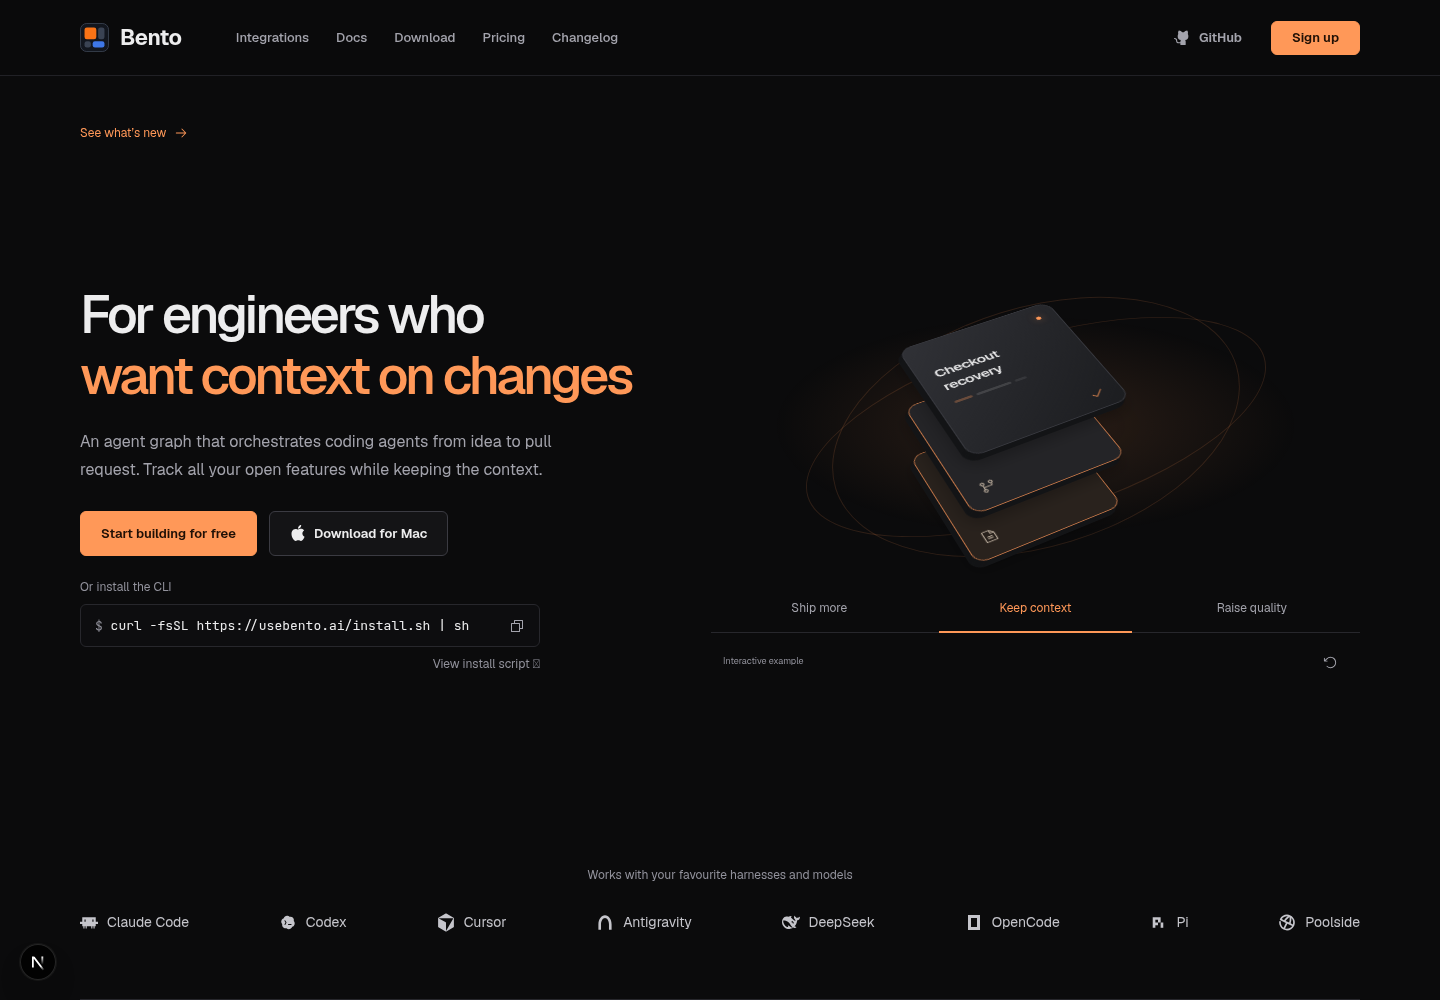
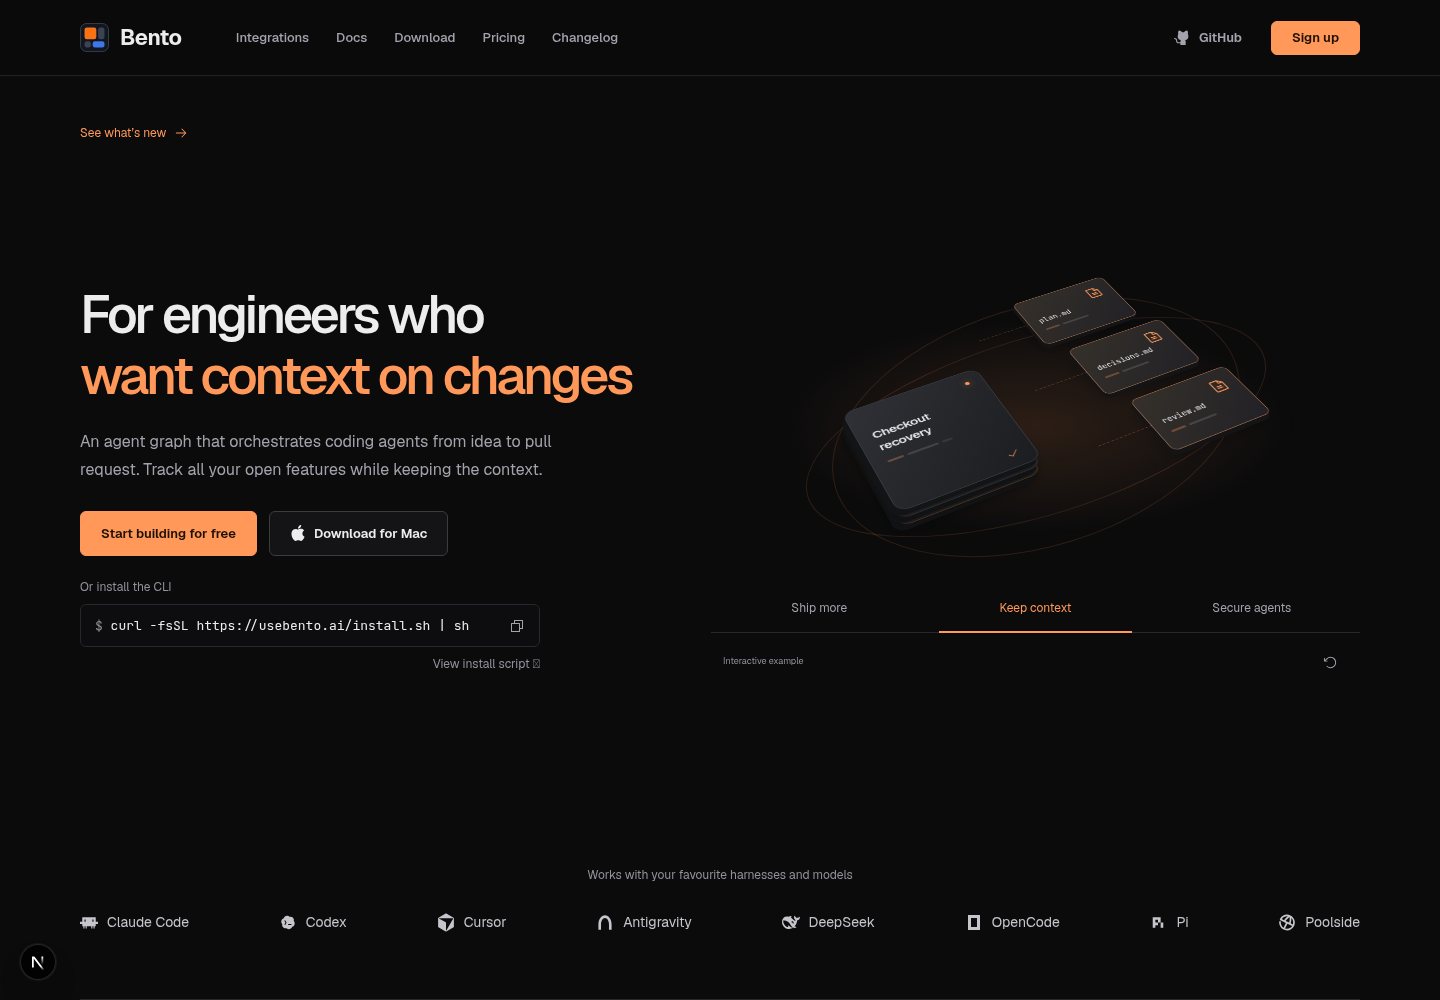
Animate shipping, artifact spawning, and agent lockdown

Changed region(s): [[0.5625, 0.279, 0.875, 0.558], [0.8438, 0.589, 0.9062, 0.62]]

diff --git a/app/marketing.css b/app/marketing.css
@@ -789,7 +789,7 @@ body:has(.marketing-page) {
 .feature-stage::before { content: ""; position: absolute; inset: 12% 6%; background: radial-gradient(ellipse, color-mix(in srgb, var(--brand) 14%, transparent), transparent 65%); }
 .feature-orbit { position: absolute; width: 420px; height: 240px; left: 50%; top: 38px; border: 1px solid color-mix(in srgb, var(--brand) 14%, transparent); border-radius: 50%; transform: translateX(-50%) rotate(-17deg); }
 .feature-orbit::after { content: ""; position: absolute; inset: 30px -30px; border: inherit; border-radius: 50%; }
-.feature-world { position: absolute; left: 50%; top: 47%; width: 0; height: 0; transform-style: preserve-3d; transform: rotateX(46deg) rotateZ(-28deg); }
+.feature-world { position: absolute; left: 50%; top: 47%; width: 0; height: 0; transform-style: preserve-3d; transform: scale(.9) rotateX(46deg) rotateZ(-28deg); }
 .feature-cluster { position: absolute; width: 160px; height: 160px; left: -80px; top: -80px; transform-style: preserve-3d; transition: transform 1000ms cubic-bezier(.22,1,.36,1), opacity 650ms; }
 .feature-cluster-0 { transform: translate3d(-167px, -32px, 12px); }
 .feature-cluster-1 { transform: translate3d(0, 16px, 36px); }
@@ -808,23 +808,65 @@ body:has(.marketing-page) {
 .feature-card-lines i:nth-child(3) { width: 12px; background: #ffffff15; }
 .feature-card-bottom { position: absolute; bottom: 12px; left: 16px; right: 16px; font-size: 6px; }
 .feature-card-bottom svg { color: #ff9858; }
-.hero-story-demo:not([data-chapter="0"]) .feature-cluster-0 { transform: translate3d(-260px, 0, -100px) scale(.6); opacity: 0; }
-.hero-story-demo:not([data-chapter="0"]) .feature-cluster-2 { transform: translate3d(260px, 0, -100px) scale(.6); opacity: 0; }
-.hero-story-demo[data-chapter="1"] .feature-cluster-1 { transform: translate3d(-36px, 20px, 0); }
-.hero-story-demo[data-chapter="1"] .feature-cluster-1 .feature-slab-base { transform: translateZ(-56px); border-color: #be7346; }
-.hero-story-demo[data-chapter="1"] .feature-cluster-1 .feature-slab-middle { transform: translateZ(14px); border-color: #be7346; }
-.hero-story-demo[data-chapter="1"] .feature-cluster-1 .feature-slab-top { transform: translateZ(88px); }
-.hero-story-demo[data-chapter="2"] .feature-cluster-1 { transform: translate3d(-20px, 10px, 12px); }
-.hero-story-demo[data-chapter="2"] .feature-cluster-1 .feature-slab { border-color: #ff9858; }
-.feature-scan { position: absolute; width: 188px; height: 188px; top: -98px; left: -114px; border: 1px solid #ff9858; border-radius: 17px; display: flex; justify-content: space-between; align-items: flex-start; padding: 13px; color: #ffb786; background: linear-gradient(135deg, #ff98581a, #ff985808); box-shadow: 0 0 30px #ff985822, inset 0 0 30px #ff985811; transform: translateZ(100px); opacity: 0; transition: opacity 600ms; }
+/* Ship: one feature travels through three physical pipeline stops. */
+.feature-pipeline { opacity: 0; transition: opacity 500ms; transform-style: preserve-3d; }
+.hero-story-demo[data-chapter="0"] .feature-pipeline { opacity: 1; }
+.pipeline-stop { position: absolute; width: 172px; height: 172px; left: -86px; top: -86px; border: 1px solid color-mix(in srgb, var(--brand) 35%, transparent); border-radius: 16px; background: color-mix(in srgb, var(--brand) 3%, transparent); }
+.pipeline-stop-0 { transform: translate3d(-167px, -32px, -40px); }
+.pipeline-stop-1 { transform: translate3d(0, 16px, -40px); }
+.pipeline-stop-2 { transform: translate3d(167px, 64px, -40px); }
+.pipeline-stop span { position: absolute; bottom: -27px; left: 0; width: 100%; text-align: center; font: 11px var(--font-jetbrains-mono), monospace; color: var(--brand); }
+.pipeline-stop:not(:last-child)::after { content: "→"; position: absolute; left: calc(100% + 1px); top: 58%; color: var(--brand); font-size: 18px; }
+.hero-story-demo:not([data-chapter="2"]) .feature-cluster-0, .hero-story-demo:not([data-chapter="2"]) .feature-cluster-2 { opacity: 0; pointer-events: none; }
+.hero-story-demo[data-chapter="0"] .feature-cluster-1 { transform: translate3d(167px, 64px, 12px); }
+/* Context: artifacts originate from a single card and fan out beside it. */
+.hero-story-demo[data-chapter="1"] .feature-cluster-1 { transform: translate3d(-115px, 0, 25px); }
+.feature-artifacts { transform-style: preserve-3d; opacity: 0; transition: opacity 500ms; }
+.hero-story-demo[data-chapter="1"] .feature-artifacts { opacity: 1; }
+.feature-artifact { position: absolute; left: -62px; top: -43px; width: 124px; height: 86px; padding: 13px; border: 1px solid #896044; border-radius: 8px; background: linear-gradient(135deg, #35302a, #222126); color: #ededee; box-shadow: -2px 3px 0 #141416, -4px 6px 0 #141416, -8px 12px 20px #0003; transform-style: preserve-3d; }
+.feature-artifact svg { color: #ff9858; float: right; }
+.feature-artifact strong { display: block; font: 10px var(--font-jetbrains-mono), monospace; margin-top: 23px; }
+.feature-artifact .feature-card-lines { margin-top: 9px; }
+.feature-artifact::before { content: ""; position: absolute; right: 100%; width: 65px; top: 50%; border-top: 1px dashed #ff98585c; }
+.feature-artifact-0 { transform: translate3d(108px, -105px, 40px); }
+.feature-artifact-1 { transform: translate3d(125px, 0, 40px); }
+.feature-artifact-2 { transform: translate3d(142px, 105px, 40px); }
+/* Security: each card receives its own orange boundary and lock. */
+.hero-story-demo[data-chapter="2"] .feature-world { top: 58%; }
+.feature-scan { position: absolute; inset: -9px; border: 1px solid #ff9858; border-radius: 17px; display: flex; justify-content: space-between; align-items: flex-start; padding: 13px; color: #ffb786; background: linear-gradient(135deg, #ff98581a, #ff985808); box-shadow: 0 0 30px #ff985822, inset 0 0 30px #ff985811; transform: translateZ(60px); opacity: 0; transition: opacity 600ms; }
+.feature-lock { display: none; color: #ffb786; }
 .hero-story-demo[data-chapter="2"] .feature-scan { opacity: 1; }
+.hero-story-demo[data-chapter="2"] .feature-slab { border-color: #ff9858; }
+.hero-story-demo[data-chapter="2"] .feature-card-top i { display: none; }
+.hero-story-demo[data-chapter="2"] .feature-lock { display: block; }
 @media (prefers-reduced-motion: no-preference) {
-  .hero-story-demo[data-chapter="0"] .feature-slab-top { animation: feature-float 3s ease-in-out infinite alternate; }
-  .hero-story-demo[data-chapter="0"] .feature-cluster-0 .feature-slab-top { animation-delay: -.8s; }
-  .hero-story-demo[data-chapter="0"] .feature-cluster-2 .feature-slab-top { animation-delay: -1.6s; }
-  .hero-story-demo[data-chapter="2"] .feature-scan { animation: feature-inspect 2.8s ease-in-out infinite alternate; }
-  @keyframes feature-float { from { transform: translateZ(0); } to { transform: translateZ(17px); } }
-  @keyframes feature-inspect { from { transform: translateZ(92px); } to { transform: translateZ(-30px); } }
+  .hero-story-demo[data-chapter="0"] .feature-cluster-1 { animation: feature-ship 6s cubic-bezier(.45,0,.2,1) infinite; }
+  .hero-story-demo[data-chapter="1"] .feature-artifact { animation: artifact-spawn 6s cubic-bezier(.22,1,.36,1) infinite both; }
+  .hero-story-demo[data-chapter="1"] .feature-artifact-0 { --artifact-x: 108px; --artifact-y: -105px; }
+  .hero-story-demo[data-chapter="1"] .feature-artifact-1 { --artifact-x: 125px; --artifact-y: 0px; animation-delay: .35s; }
+  .hero-story-demo[data-chapter="1"] .feature-artifact-2 { --artifact-x: 142px; --artifact-y: 105px; animation-delay: .7s; }
+  .hero-story-demo[data-chapter="2"] .feature-scan { animation: feature-secure 6s ease-in-out infinite both; }
+  .hero-story-demo[data-chapter="2"] .feature-lock { animation: feature-locked 6s ease-in-out infinite both; }
+  .hero-story-demo[data-chapter="2"] .feature-cluster-1 .feature-scan, .hero-story-demo[data-chapter="2"] .feature-cluster-1 .feature-lock { animation-delay: .5s; }
+  .hero-story-demo[data-chapter="2"] .feature-cluster-2 .feature-scan, .hero-story-demo[data-chapter="2"] .feature-cluster-2 .feature-lock { animation-delay: 1s; }
+  @keyframes feature-ship {
+    0%, 15% { transform: translate3d(-167px, -32px, 12px); }
+    38%, 53% { transform: translate3d(0, 16px, 28px); }
+    78%, 94% { transform: translate3d(167px, 64px, 12px); opacity: 1; }
+    100% { transform: translate3d(190px, 70px, 36px); opacity: 0; }
+  }
+  @keyframes artifact-spawn {
+    0%, 8% { transform: translate3d(-115px, 0, 30px) scale(.5); opacity: 0; }
+    35%, 88% { transform: translate3d(var(--artifact-x), var(--artifact-y), 40px); opacity: 1; }
+    100% { transform: translate3d(var(--artifact-x), var(--artifact-y), 50px); opacity: 0; }
+  }
+  @keyframes feature-secure {
+    0%, 10% { transform: translateZ(70px); opacity: 0; }
+    22% { transform: translateZ(70px); opacity: 1; }
+    55%, 90% { transform: translateZ(-28px); opacity: 1; }
+    100% { transform: translateZ(-28px); opacity: 0; }
+  }
+  @keyframes feature-locked { 0%, 40% { opacity: 0; } 55%, 100% { opacity: 1; } }
 }
 .story-chapters { display: grid; grid-template-columns: repeat(3, minmax(0, 1fr)); border-bottom: 1px solid var(--line); }
 .story-chapters button { position: relative; display: flex; align-items: center; justify-content: center; gap: 8px; padding: 15px 4px; color: var(--text-muted); background: none; border: 0; font: inherit; cursor: pointer; }

diff --git a/e2e/marketing.spec.ts b/e2e/marketing.spec.ts
@@ -240,10 +240,10 @@ for (const width of [375, 1440]) {
     const active = page.locator('.hero-ending[data-active="true"]');
     await expect(active).toHaveText("ship a lot of PRs");
     const cta = await page.locator(".hero-actions").boundingBox();
-    for (const phrase of ["want context on changes", "have a high bar for quality", "ship a lot of PRs"]) {
+    for (const phrase of ["want context on changes", "want secure agents", "ship a lot of PRs"]) {
       await page.clock.fastForward(6000);
       await expect(active).toHaveText(phrase);
-      await expect(page.locator('.story-scene[data-active="true"]')).toHaveAttribute("aria-label", phrase.startsWith("want") ? "Keep context" : phrase.startsWith("have") ? "Raise quality" : "Ship more");
+      await expect(page.locator('.story-scene[data-active="true"]')).toHaveAttribute("aria-label", phrase.includes("context") ? "Keep context" : phrase.includes("secure") ? "Secure agents" : "Ship more");
       expect((await page.locator(".hero-actions").boundingBox())!.y).toBe(cta!.y);
       expect(await page.evaluate(() => document.documentElement.scrollWidth <= innerWidth)).toBe(true);
     }
@@ -261,7 +261,7 @@ test("hero story can be selected and replayed", async ({ page }) => {
   await expect(page.locator('.hero-ending[data-active="true"]')).toHaveText("want context on changes");
   await page.clock.fastForward(18000);
   await expect(page.locator(".hero-story-demo")).toHaveAttribute("data-chapter", "1");
-  await page.getByRole("button", { name: "Raise quality", exact: true }).click();
+  await page.getByRole("button", { name: "Secure agents", exact: true }).click();
   await expect(page.locator(".hero-story-demo")).toHaveAttribute("data-chapter", "2");
   await page.getByRole("button", { name: "Replay story" }).click();
   await expect(page.locator('.hero-ending[data-active="true"]')).toHaveText("ship a lot of PRs");
@@ -289,4 +289,45 @@ test("hero starts the synchronized story without interaction", async ({ page }) 
   await expect(page.locator('.story-scene[data-active="true"]')).toHaveAttribute("aria-label", "Keep context", { timeout: 12000 });
   await expect(page.locator('.hero-ending[data-active="true"]')).toHaveText("want context on changes");
   expect(errors).toEqual([]);
+});
+
+test("3D scenes move a feature, spawn artifacts, and secure every card", async ({ page }) => {
+  await page.emulateMedia({ reducedMotion: "no-preference" });
+  await page.goto("/");
+  await page.getByRole("button", { name: "Ship more", exact: true }).click();
+  const movingCard = page.locator(".feature-cluster-1");
+  const xAt = async (time: number) => movingCard.evaluate((element, time) => {
+    const animation = element.getAnimations().find(animation => (animation as CSSAnimation).animationName === "feature-ship")!;
+    animation.pause();
+    animation.currentTime = time;
+    return new DOMMatrix(getComputedStyle(element).transform).m41;
+  }, time);
+  expect(await xAt(4800)).toBeGreaterThan(await xAt(300));
+
+  await page.getByRole("button", { name: "Keep context", exact: true }).click();
+  const artifacts = page.locator(".feature-artifact");
+  await expect(artifacts).toHaveCount(3);
+  const destinations = await artifacts.evaluateAll(elements => elements.map(element => {
+    const animation = element.getAnimations().find(animation => (animation as CSSAnimation).animationName === "artifact-spawn")!;
+    animation.pause();
+    animation.currentTime = 3000;
+    const style = getComputedStyle(element);
+    return { x: new DOMMatrix(style.transform).m41, opacity: style.opacity };
+  }));
+  expect(destinations.every(position => position.x > 0 && position.opacity === "1")).toBe(true);
+
+  await page.getByRole("button", { name: "Secure agents", exact: true }).click();
+  await expect(page.locator('.hero-ending[data-active="true"]')).toHaveText("want secure agents");
+  const locks = page.locator(".feature-lock");
+  await expect(locks).toHaveCount(3);
+  const locked = await locks.evaluateAll(elements => elements.map(element => {
+    const animation = element.getAnimations().find(animation => (animation as CSSAnimation).animationName === "feature-locked")!;
+    animation.pause();
+    animation.currentTime = 5000;
+    return getComputedStyle(element).opacity;
+  }));
+  expect(locked).toEqual(["1", "1", "1"]);
+  await page.emulateMedia({ reducedMotion: "reduce" });
+  for (const lock of await locks.all()) await expect(lock).toHaveCSS("opacity", "1");
+  for (const plane of await page.locator(".feature-scan").all()) await expect(plane).toHaveCSS("animation-name", "none");
 });

diff --git a/components/marketing/hero-story-demo.tsx b/components/marketing/hero-story-demo.tsx
@@ -1,9 +1,9 @@
 "use client";
 
-import { ArrowCounterClockwise, Check, FileText, GitBranch, ShieldCheck } from "@phosphor-icons/react";
+import { ArrowCounterClockwise, Check, FileText, GitBranch, LockKey, ShieldCheck } from "@phosphor-icons/react";
 import { useHeroStory } from "./hero-story";
 
-const chapters = ["Ship more", "Keep context", "Raise quality"];
+const chapters = ["Ship more", "Keep context", "Secure agents"];
 const features = ["Billing empty states", "Checkout recovery", "Rate limit API"];
 
 export function HeroStoryDemo() {
@@ -13,12 +13,18 @@ export function HeroStoryDemo() {
     <div className="feature-stage" aria-hidden="true">
       <div className="feature-orbit" />
       <div className="feature-world">
+        <div className="feature-pipeline">
+          {["Plan", "Build", "PR"].map((stage, index) => <div className={`pipeline-stop pipeline-stop-${index}`} key={stage}><span>{stage}</span></div>)}
+        </div>
         {features.map((feature, index) => <div className={`feature-cluster feature-cluster-${index}`} key={feature}>
           <div className="feature-slab feature-slab-base"><FileText size={18} /></div>
           <div className="feature-slab feature-slab-middle"><GitBranch size={18} /></div>
-          <div className="feature-slab feature-slab-top"><div className="feature-card-top"><i /></div><strong>{feature}</strong><div className="feature-card-lines"><i /><i /><i /></div><div className="feature-card-bottom"><Check size={14} /></div></div>
+          <div className="feature-slab feature-slab-top"><div className="feature-card-top"><i /><LockKey className="feature-lock" size={17} weight="fill" /></div><strong>{feature}</strong><div className="feature-card-lines"><i /><i /><i /></div><div className="feature-card-bottom"><Check size={14} /></div></div>
+          <div className="feature-scan"><ShieldCheck size={26} /></div>
         </div>)}
-        <div className="feature-scan"><ShieldCheck size={26} /></div>
+        <div className="feature-artifacts">
+          {["plan.md", "decisions.md", "review.md"].map((file, index) => <div className={`feature-artifact feature-artifact-${index}`} key={file}><FileText size={22} /><strong>{file}</strong><div className="feature-card-lines"><i /><i /></div></div>)}
+        </div>
       </div>
 
     </div>
@@ -27,9 +33,9 @@ export function HeroStoryDemo() {
     </div>
     <div className="sr-only">
       {[
-        "Independent feature blocks move in parallel.",
-        "A feature separates into requirement, decision, and implementation layers.",
-        "A review plane checks each layer before the feature ships.",
+        "A feature block moves left to right through planning, implementation, and a pull request.",
+        "One feature card produces a plan, decisions, and review artifacts.",
+        "Orange security planes descend over all three feature cards, locking each agent workspace.",
       ].map((description, index) => <div className="story-scene" key={description} data-active={active === index} hidden={active !== index} aria-label={chapters[index]}>{description}</div>)}
     </div>
     <div className="story-footer"><span>Interactive example</span><button type="button" aria-label="Replay story" title="Replay story" onClick={replay}><ArrowCounterClockwise size={15} /></button></div>

diff --git a/lib/copy.ts b/lib/copy.ts
@@ -38,7 +38,7 @@ export const siteDisambiguation = `Not to be confused with Bento the email platf
 export const marketingHeroEndings = [
   "ship a lot of PRs",
   "want context on changes",
-  "have a high bar for quality",
+  "want secure agents",
 ] as const;
 
 export const marketingHomeHeadlineLines = ["For engineers who", marketingHeroEndings[0]] as const;
